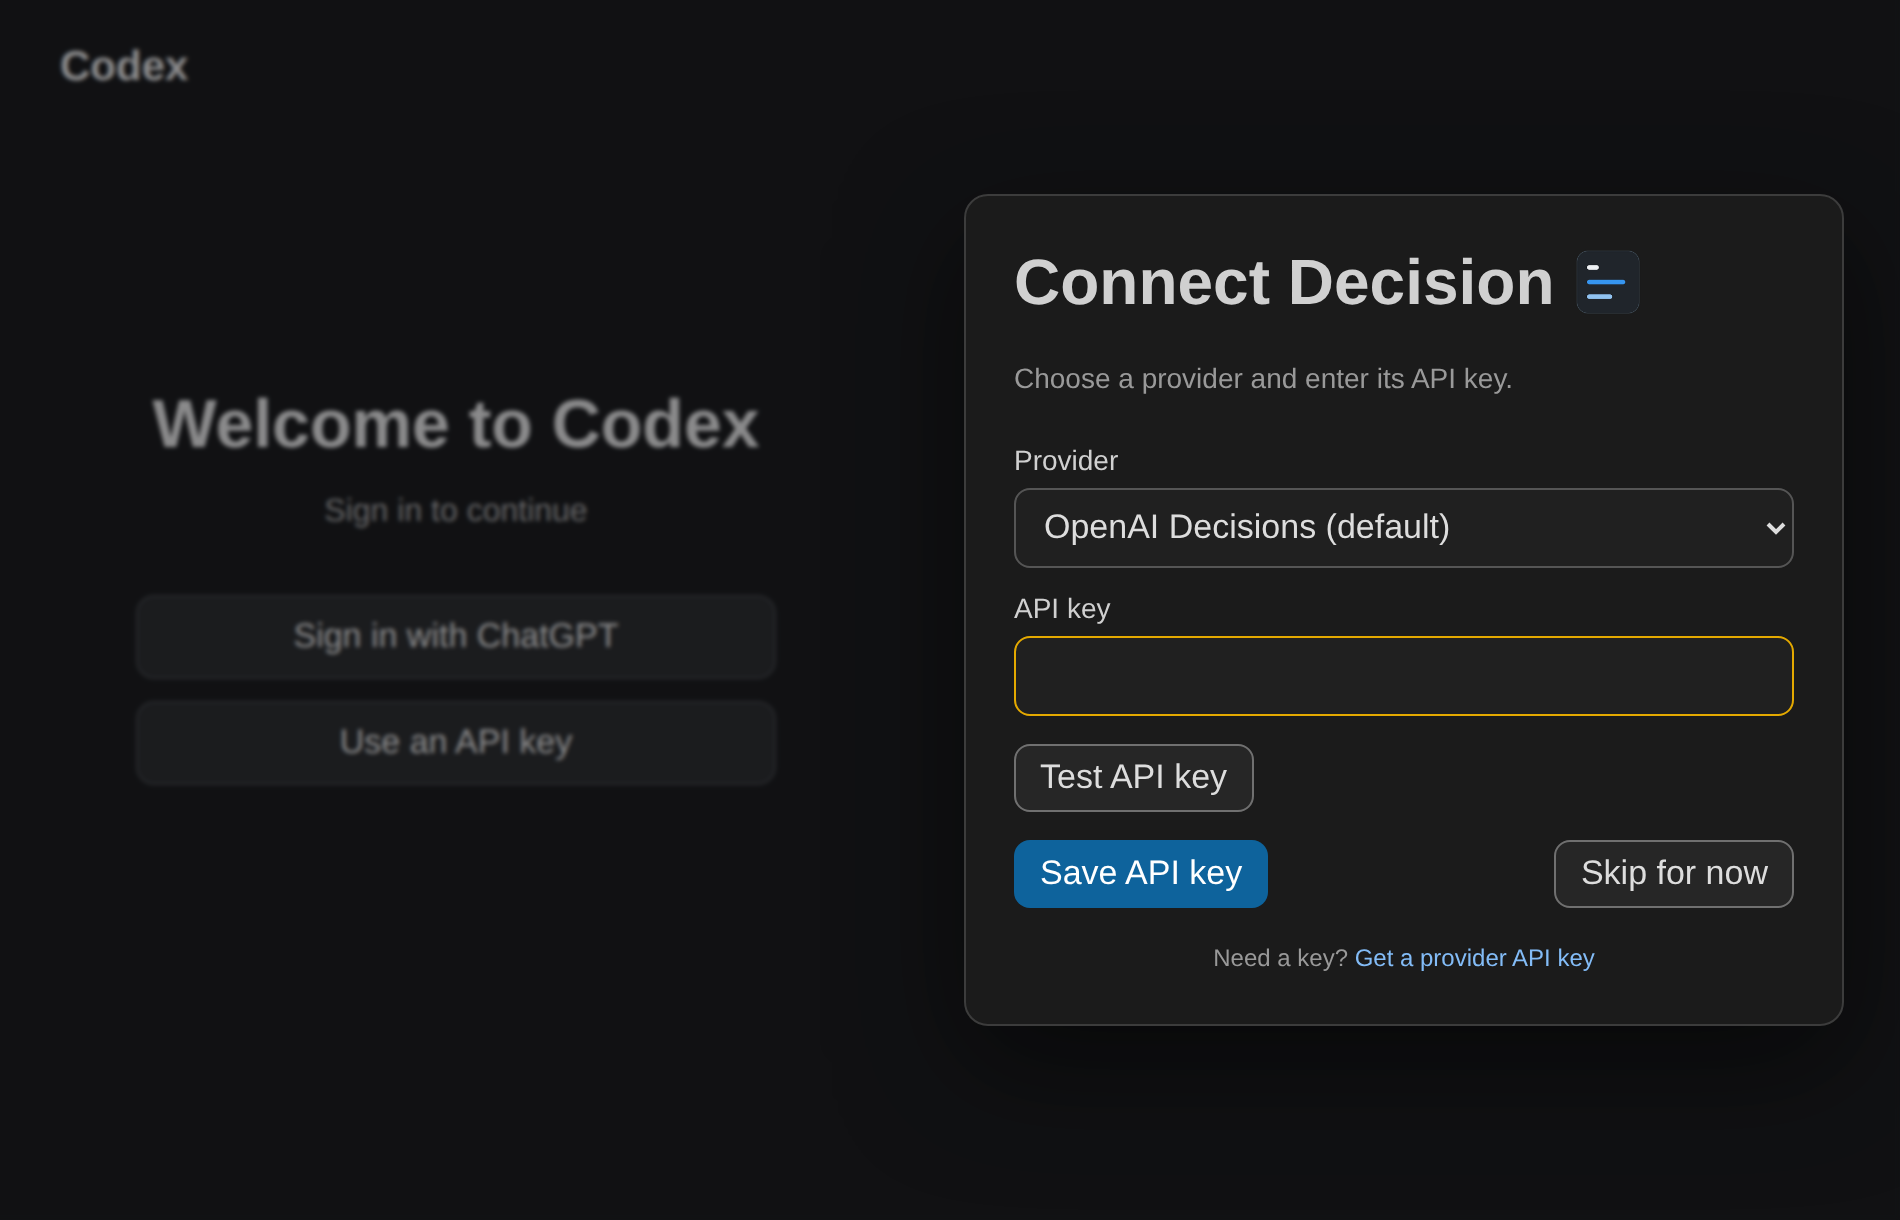
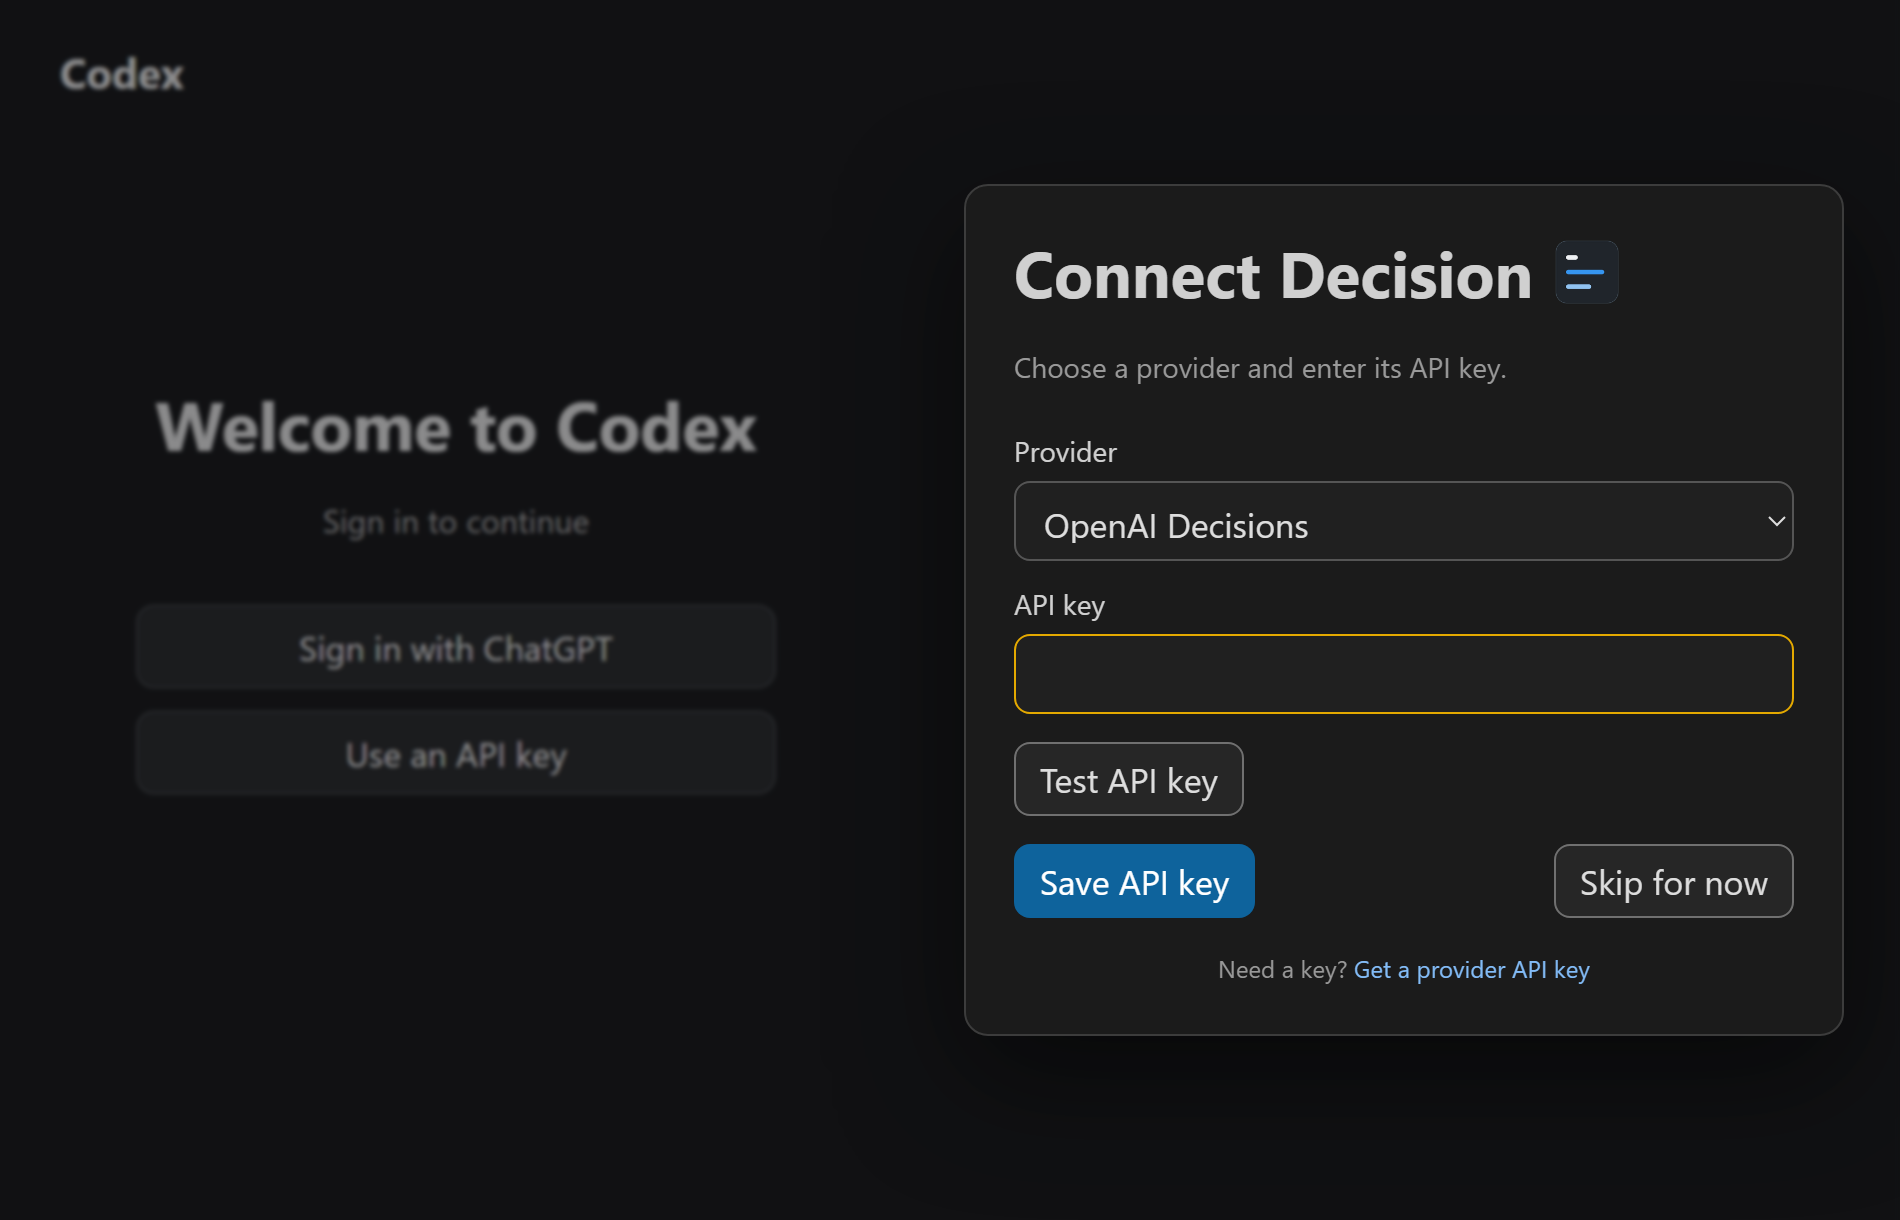
Remove OpenAI Decisions default labels

diff --git a/vscode-control/webview/decision-settings.js b/vscode-control/webview/decision-settings.js
@@ -250,7 +250,7 @@
     document.head.append(style);
     panel = document.createElement("div");
     panel.id = "codex-decision-settings-panel";
-    panel.innerHTML = `<div class="header"><h1>Decision</h1><button id="codex-decision-settings-open-logs" type="button">Open logs</button></div><section aria-label="Installation totals"><h2>All sessions</h2><div class="metrics"><div class="metric"><strong id="codex-decision-settings-lifetime-tokens">—</strong><span>Lines judged</span></div><div class="metric"><strong id="codex-decision-settings-lifetime-replaced">—</strong><span>Lines omitted</span></div><div class="metric"><strong id="codex-decision-settings-lifetime-protected">—</strong><span>Protected locally</span></div><div class="metric"><strong id="codex-decision-settings-lifetime-calls">—</strong><span>Decision requests</span></div><div class="metric"><strong id="codex-decision-settings-lifetime-time">—</strong><span>Avg. request time</span></div></div></section><section><h2>Decision provider</h2><div class="field"><label for="codex-decision-settings-provider">Provider</label><select id="codex-decision-settings-provider"><option value="openai">OpenAI Decisions (default)</option><option value="typesafe">TypeSafe Jev</option></select></div><h2>API key</h2><div class="field"><label for="codex-decision-settings-key">API key</label><input id="codex-decision-settings-key" type="password" autocomplete="off" spellcheck="false" maxlength="4096"></div><div class="actions"><button id="codex-decision-settings-test" type="button">Test API key</button><span id="codex-decision-settings-test-status" role="status" aria-live="polite"></span></div></section><section><h2>Log retention</h2><div class="log-retention"><label for="codex-decision-settings-log-limit">Storage limit (MB)</label><input id="codex-decision-settings-log-limit" class="log-limit-input" type="text" inputmode="numeric" maxlength="4" aria-label="Log storage limit in MB"><label for="codex-decision-settings-never-delete"><input id="codex-decision-settings-never-delete" type="checkbox">Never delete logs</label></div><small>Oldest session log files are removed when the limit is reached.</small></section><section><h2>Behavior</h2><div class="field"><label for="codex-decision-settings-mode">Mode<small>Monitor previews per-line Decision decisions while leaving tool output unchanged. Filter shortens approved results.</small></label><select id="codex-decision-settings-mode"><option value="observe">Monitor</option><option value="replace">Filter</option></select></div><div id="codex-decision-settings-thresholds"></div></section><div class="actions save-actions"><button id="codex-decision-settings-save" type="button" class="primary">Save settings</button><button id="codex-decision-settings-reset" type="button" class="subtle" title="Restore the default settings in this form. Save to apply." disabled>Reset defaults</button></div><p id="codex-decision-settings-message" role="status" aria-live="polite"></p>`;
+    panel.innerHTML = `<div class="header"><h1>Decision</h1><button id="codex-decision-settings-open-logs" type="button">Open logs</button></div><section aria-label="Installation totals"><h2>All sessions</h2><div class="metrics"><div class="metric"><strong id="codex-decision-settings-lifetime-tokens">—</strong><span>Lines judged</span></div><div class="metric"><strong id="codex-decision-settings-lifetime-replaced">—</strong><span>Lines omitted</span></div><div class="metric"><strong id="codex-decision-settings-lifetime-protected">—</strong><span>Protected locally</span></div><div class="metric"><strong id="codex-decision-settings-lifetime-calls">—</strong><span>Decision requests</span></div><div class="metric"><strong id="codex-decision-settings-lifetime-time">—</strong><span>Avg. request time</span></div></div></section><section><h2>Decision provider</h2><div class="field"><label for="codex-decision-settings-provider">Provider</label><select id="codex-decision-settings-provider"><option value="openai">OpenAI Decisions</option><option value="typesafe">TypeSafe Jev</option></select></div><h2>API key</h2><div class="field"><label for="codex-decision-settings-key">API key</label><input id="codex-decision-settings-key" type="password" autocomplete="off" spellcheck="false" maxlength="4096"></div><div class="actions"><button id="codex-decision-settings-test" type="button">Test API key</button><span id="codex-decision-settings-test-status" role="status" aria-live="polite"></span></div></section><section><h2>Log retention</h2><div class="log-retention"><label for="codex-decision-settings-log-limit">Storage limit (MB)</label><input id="codex-decision-settings-log-limit" class="log-limit-input" type="text" inputmode="numeric" maxlength="4" aria-label="Log storage limit in MB"><label for="codex-decision-settings-never-delete"><input id="codex-decision-settings-never-delete" type="checkbox">Never delete logs</label></div><small>Oldest session log files are removed when the limit is reached.</small></section><section><h2>Behavior</h2><div class="field"><label for="codex-decision-settings-mode">Mode<small>Monitor previews per-line Decision decisions while leaving tool output unchanged. Filter shortens approved results.</small></label><select id="codex-decision-settings-mode"><option value="observe">Monitor</option><option value="replace">Filter</option></select></div><div id="codex-decision-settings-thresholds"></div></section><div class="actions save-actions"><button id="codex-decision-settings-save" type="button" class="primary">Save settings</button><button id="codex-decision-settings-reset" type="button" class="subtle" title="Restore the default settings in this form. Save to apply." disabled>Reset defaults</button></div><p id="codex-decision-settings-message" role="status" aria-live="polite"></p>`;
     const thresholds = panel.querySelector("#codex-decision-settings-thresholds");
     for (const [hook, heading, fields] of sections) {
       const title = document.createElement("h2");

diff --git a/vscode-control/webview/decision-control.js b/vscode-control/webview/decision-control.js
@@ -262,7 +262,7 @@
     setup.setAttribute("role", "dialog");
     setup.setAttribute("aria-modal", "true");
     setup.setAttribute("aria-labelledby", "codex-decision-connect-title");
-    setup.innerHTML = `<div id="codex-decision-connect-art" aria-hidden="true"><pre></pre></div><div id="codex-decision-connect-card"><div id="codex-decision-connect-heading"><h1 id="codex-decision-connect-title">Connect Decision</h1><img id="codex-decision-connect-icon" src="./assets/decision-icon.png" alt=""></div><p>Choose a provider and enter its API key.</p><label for="codex-decision-provider">Provider</label><select id="codex-decision-provider"><option value="openai">OpenAI Decisions (default)</option><option value="typesafe">TypeSafe Jev</option></select><label for="codex-decision-key">API key</label><input id="codex-decision-key" type="password" autocomplete="off" spellcheck="false" maxlength="4096"><div id="codex-decision-connect-actions"><button id="codex-decision-test-key" type="button">Test API key</button><span id="codex-decision-key-status" role="status" aria-live="polite"></span></div><div id="codex-decision-connect-footer"><button id="codex-decision-save-key" type="button">Save API key</button><button id="codex-decision-skip-key" type="button">Skip for now</button></div><p id="codex-decision-connect-link">Need a key? <a href="https://platform.openai.com/api-keys" rel="noopener noreferrer">Get a provider API key</a></p></div>`;
+    setup.innerHTML = `<div id="codex-decision-connect-art" aria-hidden="true"><pre></pre></div><div id="codex-decision-connect-card"><div id="codex-decision-connect-heading"><h1 id="codex-decision-connect-title">Connect Decision</h1><img id="codex-decision-connect-icon" src="./assets/decision-icon.png" alt=""></div><p>Choose a provider and enter its API key.</p><label for="codex-decision-provider">Provider</label><select id="codex-decision-provider"><option value="openai">OpenAI Decisions</option><option value="typesafe">TypeSafe Jev</option></select><label for="codex-decision-key">API key</label><input id="codex-decision-key" type="password" autocomplete="off" spellcheck="false" maxlength="4096"><div id="codex-decision-connect-actions"><button id="codex-decision-test-key" type="button">Test API key</button><span id="codex-decision-key-status" role="status" aria-live="polite"></span></div><div id="codex-decision-connect-footer"><button id="codex-decision-save-key" type="button">Save API key</button><button id="codex-decision-skip-key" type="button">Skip for now</button></div><p id="codex-decision-connect-link">Need a key? <a href="https://platform.openai.com/api-keys" rel="noopener noreferrer">Get a provider API key</a></p></div>`;
     document.body.appendChild(setup);
     setup.querySelector("#codex-decision-provider").addEventListener("change", () => {
       setup.querySelector("#codex-decision-key").value = "";

diff --git a/skills/decision-output/SKILL.md b/skills/decision-output/SKILL.md
@@ -10,7 +10,7 @@ Codex Decision runs as a local Rust `PostToolUse` hook with one enabled flag for
 ## Set up or diagnose
 
 1. Check whether `codex-decision` is installed and enabled in the current Codex environment. Identify the installed plugin's data directory and active Codex session before inspecting session activity; do not assume a path or session from another window. Run `decisionctl check-hook-trust --cwd <repository>` after an update and review any changed hook in `/hooks`.
-2. Use the single Decision toggle for the active thread. Supported output uses one shared relevance cutoff. Legacy switches merge to on if any was on; old cutoffs migrate to a relevance cutoff no higher than 5%. Explain that eligible text is sent to the selected provider: OpenAI Decisions by default, or TypeSafe Jev. Do not enable filtering for output that may contain secrets or other text the user has not authorized sending to that service.
+2. Use the single Decision toggle for the active thread. Supported output uses one shared relevance cutoff. Legacy switches merge to on if any was on; old cutoffs migrate to a relevance cutoff no higher than 5%. Explain that eligible text is sent to the selected provider: OpenAI Decisions or TypeSafe Jev. Do not enable filtering for output that may contain secrets or other text the user has not authorized sending to that service.
 3. If a key is missing, direct the user to **Connect Decision** in the optional VS Code control or to the local key setup guide. Do not ask the user to paste a key into chat. Do not print, copy, or inspect the saved key.
 4. Prefer **Monitor** while evaluating unfamiliar output. Known independent-line formats use local validation and proceed directly to relevance batches. Unknown formats use one sampled Choice; its excerptable class still requires at least 95% combined normalized probability. Exact source/diff reads, explicit exhaustive tasks, and impossible savings skip before an API request. Each candidate line receives a task-relevance predicate (OpenAI) or Noul (TypeSafe); only probabilities at or below the shared cutoff (5% by default) can be omitted. Protected diagnostics, context, completion evidence, representative duplicates and the last line stay intact. The second stage has no candidate-line cap. It packs complete targets under both local request bounds: 32k tokens for state plus the longest question and 64k for the whole request. The hook uses conservative UTF-8 byte-based token estimates plus 4,096 framing headroom because no official local tokenizer is published. Every eligible line belongs to exactly one batch. A later batch failure rolls back progress and keeps the full result. Known formats need only relevance calls. Unknown formats need classification first. There is no optional gate switch. A changed enabled flag, mode, or cutoff applies to the next result. The optional composer control needs a separately installed extension and pinned patch.
 

diff --git a/README.md b/README.md
@@ -4,7 +4,7 @@
 
 Codex Decision removes repetitive lines from local tool output before Codex reads them. Errors and useful evidence stay visible. Every shortened result links to the complete original.
 
-**Codex Decision 0.11.0 · VS Code control 0.10.3** — [Download the latest release](https://github.com/PhilippElhaus/Codex-Decision/releases/tag/v0.11.0).
+**Codex Decision 0.11.0 · VS Code control 0.10.4** — [Download the latest release](https://github.com/PhilippElhaus/Codex-Decision/releases/tag/v0.11.0).
 
 ## Get started
 
@@ -19,7 +19,7 @@ Trust the Decision hook in `/hooks`. For the screens below, install the optional
 
 ### 1. Connect Decision
 
-Sign in to Codex, select **OpenAI Decisions** (default) or **TypeSafe Jev**, then enter and test that provider’s API key in **Connect Decision**. The key stays out of chat.
+Sign in to Codex, select **OpenAI Decisions** or **TypeSafe Jev**, then enter and test that provider’s API key in **Connect Decision**. The key stays out of chat.
 
 <img src="docs/images/decision-connect.png" width="760" alt="Connect Decision screen with an empty API key field">
 

diff --git a/docs/setup/setup_installation.md b/docs/setup/setup_installation.md
@@ -25,7 +25,7 @@ For the optional Windows VS Code control, build and install its VSIX from WSL:
 cd vscode-control
 mkdir -p ../.local/submission
 ../scripts/build_control.sh
-code --install-extension "$(wslpath -w ../.local/submission/codex-decision-control-0.10.3.vsix)" --force
+code --install-extension "$(wslpath -w ../.local/submission/codex-decision-control-0.10.4.vsix)" --force
 ```
 
 Set `codexDecision.dataDirectory` to the installed plugin's absolute `PLUGIN_DATA` directory. Apply the [version-pinned Codex composer patch](../../vscode-control/README.md#install), then reload VS Code. The control needs the same data directory as the hook. Its pinned bridge reads the active thread from Codex's internal router, which can change while the webview URL stays fixed. The home screen has no thread yet; its indicator still checks API health and its settings page remains available. An unreadable local thread ID cannot change another session's state.

diff --git a/docs/development/provider_benchmarks_2026-10-07.md b/docs/development/provider_benchmarks_2026-10-07.md
@@ -1,6 +1,6 @@
 # Provider benchmarks — 7 October 2026
 
-Codex Decision 0.11.0 defaults to OpenAI Decisions (`gpt-6-luna`) and retains TypeSafe Jev (`jev-latest`). Both providers preserved every required source line in the 64 reviewed live cases per provider. OpenAI saved more output bytes; TypeSafe returned individual requests faster in this run.
+Codex Decision 0.11.0 supports OpenAI Decisions (`gpt-6-luna`) and TypeSafe Jev (`jev-latest`). Both providers preserved every required source line in the 64 reviewed live cases per provider. OpenAI saved more output bytes; TypeSafe returned individual requests faster in this run.
 
 | Corpus | Provider | Cases | HTTP calls | HTTP p50 / p95, ms | Called-output p50 / p95, ms | Bytes saved | Required lines lost / reviewed |
 | --- | --- | ---: | ---: | ---: | ---: | ---: | ---: |

diff --git a/docs/architecture/design_integrations.md b/docs/architecture/design_integrations.md
@@ -4,7 +4,7 @@ One session `enabled` flag controls supported local tool output. Known independe
 
 ## Providers and wire formats
 
-OpenAI Decisions is the default. TypeSafe Jev is an explicit alternative. Both providers use HTTPS bearer authentication and return typed probabilities. The Rust provider adapter owns their wire formats; routing, protection, omission thresholds, publication, and rollback use the same validated evidence pipeline.
+OpenAI Decisions and TypeSafe Jev use HTTPS bearer authentication and return typed probabilities. The Rust provider adapter owns their wire formats; routing, protection, omission thresholds, publication, and rollback use the same validated evidence pipeline.
 
 | Contract | OpenAI Decisions | TypeSafe Jev |
 | --- | --- | --- |

diff --git a/docs/setup/setup_credentials.md b/docs/setup/setup_credentials.md
@@ -1,6 +1,6 @@
 # Configure provider keys
 
-Codex Decision defaults to OpenAI Decisions with `gpt-6-luna`. TypeSafe Jev remains available with `jev-latest`. Select the provider in **Connect Decision** or **Codex settings → Decision**. Keys stay local and never enter the webview when read from disk.
+Codex Decision supports OpenAI Decisions with `gpt-6-luna` and TypeSafe Jev with `jev-latest`. Select the provider in **Connect Decision** or **Codex settings → Decision**. Keys stay local and never enter the webview when read from disk.
 
 Store keys in the installed plugin’s private `PLUGIN_DATA/.env`, outside the repository:
 

diff --git a/vscode-control/README.md b/vscode-control/README.md
@@ -8,7 +8,7 @@ From this directory in WSL:
 
 ```bash
 ../scripts/build_control.sh
-code --install-extension "$(wslpath -w ../.local/submission/codex-decision-control-0.10.3.vsix)" --force
+code --install-extension "$(wslpath -w ../.local/submission/codex-decision-control-0.10.4.vsix)" --force
 ```
 
 The composer and Codex settings page require the separate local patch for Codex VS Code extensions `26.928.31416`, `26.930.21537`, `26.930.31730`, `26.930.41038`, `26.930.51102`, `26.930.61225`, and `26.1002.51308`. It checks exact host hashes and keeps rollback files outside this repository:
